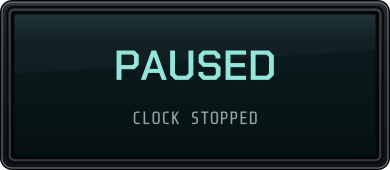
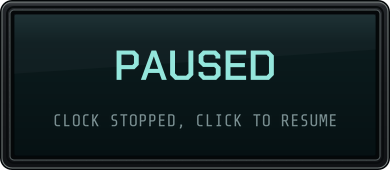
Pause card: CLOCK STOPPED, CLICK TO RESUME
Claude-Session: https://claude.ai/code/session_014nsiAaHvouuLwbtnVi8LqS

Changed region(s): [[0.2769, 0.6471, 0.8615, 0.7647], [0.1231, 0.6471, 0.2462, 0.7647]]

diff --git a/web/src/App.tsx b/web/src/App.tsx
@@ -245,7 +245,7 @@ export default function App() {
             onDrive={() => drive(seed)} onShot={driveShot} onOff={() => setMode("ready")} openRecord={openRecord} onOpened={onOpened} />
         </div>
       )}
-      {mode === "paused" && <div className="overlay dim" onClick={() => setMode("play")}><img className="pause" src={`${ART}pause.png`} alt="PAUSED. CLOCK STOPPED" /></div>}
+      {mode === "paused" && <div className="overlay dim" onClick={() => setMode("play")}><img className="pause" src={`${ART}pause.png`} alt="PAUSED. CLOCK STOPPED, CLICK TO RESUME" /></div>}
       {mode === "over" && (
         <div className="overlay dim screen">
           <Results s={s} station={station} chain={chain} posted={posted} setPosted={setPosted} shot={shot.current ? { target: shot.current.record.storage.target } : null} settled={settled}

diff --git a/tasks/todo.md b/tasks/todo.md
@@ -844,3 +844,4 @@ Player's order. Each screen: screenshot to Gaylord, short suggestions, his feedb
 Then the phone layout of the main ones.
 - Screens 1-3 reviewed. 3: LEADERBOARDS label read taller than the other keys (14 vs 13 px rows, half a pixel low); scaled 13/14 about its centre in all six labelled states, both packs (scratchpad apply.py). Keep CLICK TO START as is.
 - Screen 4 (locked stage): wording and hidden details stay as they are (Gaylord). Added a padlock, inline SVG in the kit's line-icon style, pink, centred on the tube.
+- Screen 5 (run) fine. Screen 6 (pause): subtitle repainted in pause.png to "CLOCK STOPPED, CLICK TO RESUME" (Share Tech Mono 17 px, same colour and cap rows as the painted line; original kept in the session scratchpad).
